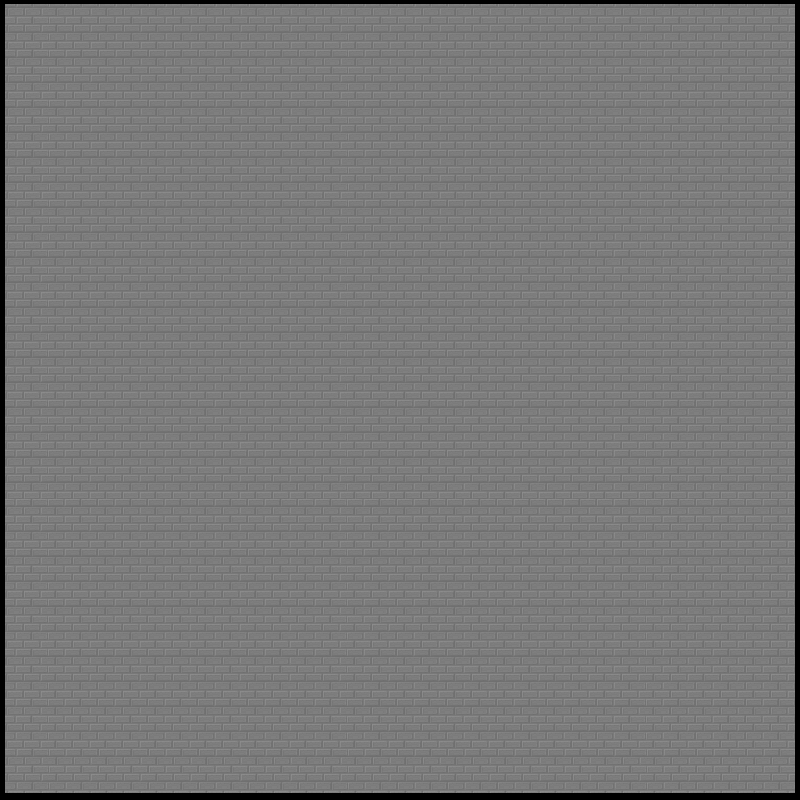
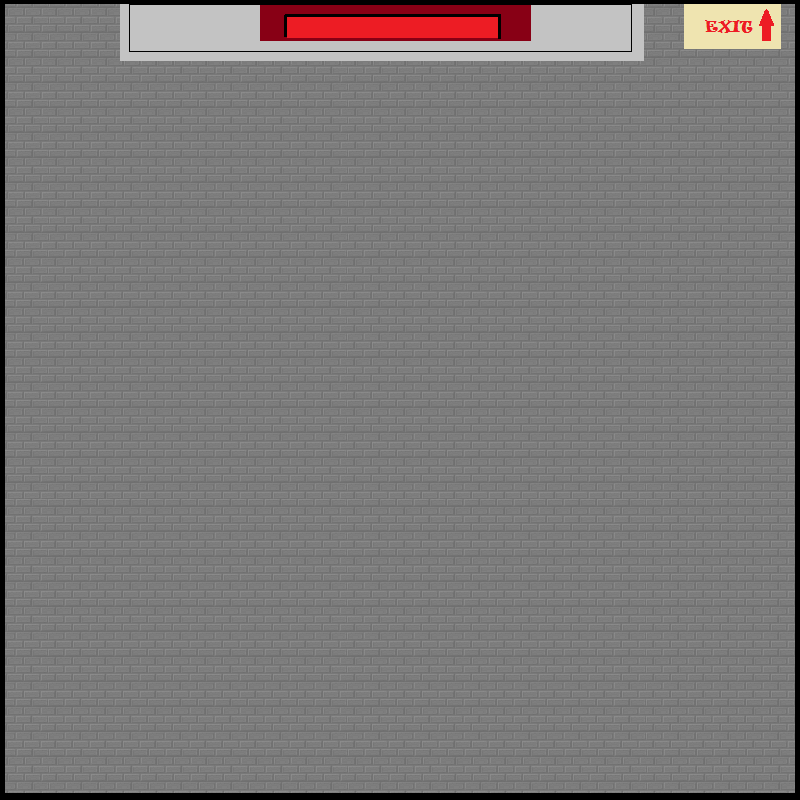
Added more controlled map transfers (edits to boss values)

Changed region(s): [[0.125, 0.0, 0.8125, 0.0938], [0.8438, 0.0, 1.0, 0.0625]]

diff --git a/Pointless/src/GGTop.java b/Pointless/src/GGTop.java
@@ -39,7 +39,7 @@ public class GGTop extends OverChar {
 	//******************************************************************************
 
 
-	public static STATE mapState = STATE.Realm;
+	public static STATE mapState = STATE.Stone;
 
 	public GGTop(int x, int y, ID player) {
 		super(x, y, player, LoadImage("basemap.png"),25/1600.0*MainMenu.width);
@@ -114,14 +114,14 @@ public class GGTop extends OverChar {
 					OverChar.playerY=0;
 					first = false;
 				}
-				
+
 				if (playerX >= 3544000.0/1360.0*MainMenu.width && playerY >= 2375000.0/1360.0*MainMenu.width && playerY<= 2500000.0/1360.0*MainMenu.width)	// entering the battle field area
 				{		//*****************************************************************************
 					mapState = STATE.Field;
 					first = true;
 				}
 
-				if (playerY >= 3061061/scale && playerX >= 1286000/scale && playerX <= 1400347/scale)
+				if (playerY >= 2954000/scale && playerX >= 1222312/scale && playerX <= 1324482/scale)
 				{
 					mapState = STATE.Cave;
 					first = true;
@@ -157,16 +157,19 @@ public class GGTop extends OverChar {
 					Handler.addObject(new Spawner((int)((6003724)/scale), (int)((2647057)/scale), ID.Enemy,OverChar.LoadImage("Sp clone.png"),1.3/scale));
 					Handler.addObject(new Spawner((int)((308933)/scale),(int) ((2461056)/scale), ID.Enemy,OverChar.LoadImage("Sp clone.png"), 1.3/scale));
 					Handler.addObject(new Spawner((int)((5151110)/scale), (int)((554649)/scale), ID.Enemy,OverChar.LoadImage("Sp clone.png"), 1.3/scale));
-					
+
 					first = false;
 				}
-
-				if (playerX >= 6944788/1360.0*MainMenu.width && playerY >= 1046653/1360.0*MainMenu.width && playerY <= 1335653/1360.0*MainMenu.width)	// returning to the main area
+				System.out.println(Spawner.amount);
+				if (Spawner.amount == 0)
 				{
-					mapState = STATE.Stone;
-					first = true;
+					if (playerX >= 6944788/1360.0*MainMenu.width && playerY >= 1046653/1360.0*MainMenu.width && playerY <= 1335653/1360.0*MainMenu.width)	// returning to the main area
+					{
+						mapState = STATE.Stone;
+						first = true;
+					}
 				}
-				
+
 			}
 			else if (mapState == STATE.Cave)
 			{
@@ -188,10 +191,14 @@ public class GGTop extends OverChar {
 					Handler.addObject(new NGSpawner((int)(3706347/scale), (int)(1151818/scale), ID.Enemy,OverChar.LoadImage("Sp clone.png"), 3/scale));
 					first = false;
 				}
-				if (playerX >= 6910788/1360.0*MainMenu.width && playerY >= 880406/1360.0*MainMenu.width && playerY <= 1135406/1360.0*MainMenu.width)	// returning to the main area
+				System.out.println(NGSpawner.amount);
+				if(NGSpawner.amount == 0)
 				{
-					mapState = STATE.Realm;
-					first = true;
+					if (playerX >= 6910788/1360.0*MainMenu.width && playerY >= 880406/1360.0*MainMenu.width && playerY <= 1135406/1360.0*MainMenu.width)	// returning to the main area
+					{
+						mapState = STATE.Realm;
+						first = true;
+					}
 				}
 			}
 			else if (mapState == STATE.Grass)
@@ -206,12 +213,12 @@ public class GGTop extends OverChar {
 					//second = false;
 					//first = true;
 					size = 7/1600.0*MainMenu.width;
-					
+
 					maxX = (int)(56090/1360.0*MainMenu.width);
 					maxNegX =  (int)(6910788/1360.0*MainMenu.width);
 					maxY =(int)(-827293/1360.0*MainMenu.width);
 					maxNegY = (int)(3002948/1360.0*MainMenu.width);
-					
+
 					OverChar.playerX = 0;
 					//Handler.addObject(new NGSpawner((int)(3706347/scale), (int)(1151818/scale), ID.Enemy,OverChar.LoadImage("Sp clone.png"), 3/scale));
 					first = false;
@@ -230,7 +237,7 @@ public class GGTop extends OverChar {
 					//{
 					x = (int)(100205.0/1440*MainMenu.width);
 					y = (int)(-744879.0/1440*MainMenu.width);
-					map = LoadImage("stoneS2.png");
+					map = LoadImage("stone.png");
 					//second = false;
 					//first = true;
 					size = 7/1600.0*MainMenu.width;
@@ -239,15 +246,19 @@ public class GGTop extends OverChar {
 					maxY =(int)(-956700/1360.0*MainMenu.width);
 					maxNegY = (int)(3535835/1360.0*MainMenu.width);
 					OverChar.playerX = 0;
-					Handler.addObject(new BossOne(OverChar.playerX,OverChar.playerY-500000,ID.Enemy,OverChar.LoadImage("Boss1-1.png"),4));
+					//Handler.addObject(new BossOne(OverChar.playerX,OverChar.playerY-500000,ID.Enemy,OverChar.LoadImage("Boss1-1.png"),4));
 					first = false;	
 				}
-				if (playerX >= 4031394/scale && playerY >= -956700)
+				if(BossOne.dead1 == true)
 				{
-					mapState = STATE.Base;
+					if (playerX >= 3514682/scale && playerX <= 4025532/scale && playerY == -965200/scale)
+					{
+						mapState = STATE.Base;
+						first = true;
+					}
 				}
-				
-				
+
+
 			}
 			else if (mapState == STATE.Realm)
 			{
@@ -268,7 +279,7 @@ public class GGTop extends OverChar {
 					OverChar.playerX = 0;
 					Handler.addObject(new BossTwo(1797618/1360*MainMenu.width,1289567/1360*MainMenu.width,ID.Enemy,OverChar.LoadImage("Sp clone.png"),0.5));
 					first = false;
-					
+
 				}
 			}
 		}

diff --git a/Pointless/src/Spawner.java b/Pointless/src/Spawner.java
@@ -4,10 +4,15 @@ public class Spawner extends OverChar{
 
 	boolean spawn = false;
 	int delay = 1;
+	boolean alive = true;
+	public static int amount = 0;
 	public Spawner(int x, int y, ID id, BufferedImage map, double size) {
 		super(x, y, id, map, size);
 		// TODO Auto-generated constructor stub
+
 		health = 54;
+		amount++;
+		System.out.println(amount);
 		collisionDamage = 0;
 		imageX = map.getWidth()*size/1280.0*MainMenu.width*150;
 		imageY = map.getHeight()*size/1280.0*MainMenu.width*150;
@@ -19,30 +24,34 @@ public class Spawner extends OverChar{
 		{
 			Handler.removeObject(this);
 		}
-		if (spawn)
+		if (alive)
 		{
-			delay--;
-			if (delay == 0)
+			if (spawn)
 			{
-				Handler.addObject(new Boss1Minion(x,y,ID.Enemy,LoadImage("BGtop.png"),3.5,1.0));
-				delay = 400;
+				delay--;
+				if (delay == 0)
+				{
+					Handler.addObject(new Boss1Minion(x,y,ID.Enemy,LoadImage("BGtop.png"),3.5,1.0));
+					delay = 400;
+				}
+			}		
+			if(health== 36){
+				map = OverChar.LoadImage("SP clone (1).png");			
 			}
-		}		
-		if(health== 36){
-			map = OverChar.LoadImage("SP clone (1).png");			
+
+			if(health==18){
+				map = OverChar.LoadImage("SP clone (2).png");			
+			}
+
+			if(health<=0){
+				spawn = false;
+				amount--;
+				alive = false;
+				map = OverChar.LoadImage("SP clone (3).png");
+			}
+
+
 		}
-		
-		if(health==18){
-			map = OverChar.LoadImage("SP clone (2).png");			
-		}
-		
-		if(health<=0){
-			spawn = false;
-			map = OverChar.LoadImage("SP clone (3).png");
-		}
-		
-	
-		
 	}
 
 }

diff --git a/Pointless/src/BossOne.java b/Pointless/src/BossOne.java
@@ -1,9 +1,10 @@
 import java.awt.image.BufferedImage;
 
 public class BossOne extends OverChar{
-	final int HEALTH=400;
+	final int HEALTH = 400;
 	private double speed;
 	private int delay = 500;
+	public static boolean dead1 = false;
 	private double temp = 1360.0/MainMenu.width;
 	private boolean phase1=true;
 	public BossOne(int x, int y, ID id, BufferedImage map, double size) {
@@ -46,9 +47,17 @@ public class BossOne extends OverChar{
 				for(int i = 15;i>0;i--)Handler.addObject(new Boss1Minion((int)(Math.random()*1000-500+x),(int)(Math.random()*200-100+y),ID.Enemy,LoadImage("BGtop.png"),3.5,health/HEALTH));
 				phase1=false;
 			}
-			if(health<=0)Handler.removeObject(this);
+			if(health<=0){
+				dead1 = true;
+				Handler.removeObject(this);
+				
+			}
 		}
-		if(health<=0)Handler.removeObject(this);
+		if(health<=0){
+			dead1 = true;
+			Handler.removeObject(this);
+			
+			}
 	}
 
 

diff --git a/Pointless/src/NGSpawner.java b/Pointless/src/NGSpawner.java
@@ -3,6 +3,8 @@ import java.awt.image.BufferedImage;
 public class NGSpawner extends OverChar{
 
 	public boolean spawn = true;
+	boolean alive = true;
+public static int amount = 0;
 	int delay = 0;
 	int ranX;
 	int ranY;
@@ -11,6 +13,7 @@ public class NGSpawner extends OverChar{
 		// TODO Auto-generated constructor stub
 		health = 100;
 		collisionDamage = 0;
+		amount++;
 		imageX = map.getWidth()*size/1280.0*MainMenu.width*150;
 		imageY = map.getHeight()*size/1280.0*MainMenu.width*150;
 	}
@@ -21,7 +24,7 @@ public class NGSpawner extends OverChar{
 		{
 			Handler.removeObject(this);
 		}
-		else
+		if (alive)
 		{
 			if (spawn)
 			{
@@ -67,7 +70,8 @@ public class NGSpawner extends OverChar{
 			if(health<= 0){
 				spawn = false;
 				collisionDamage = 0;
-				Handler.removeObject(this);
+				amount--;
+				alive = false;
 				map = OverChar.LoadImage("SP clone (3).png");			
 			}
 
